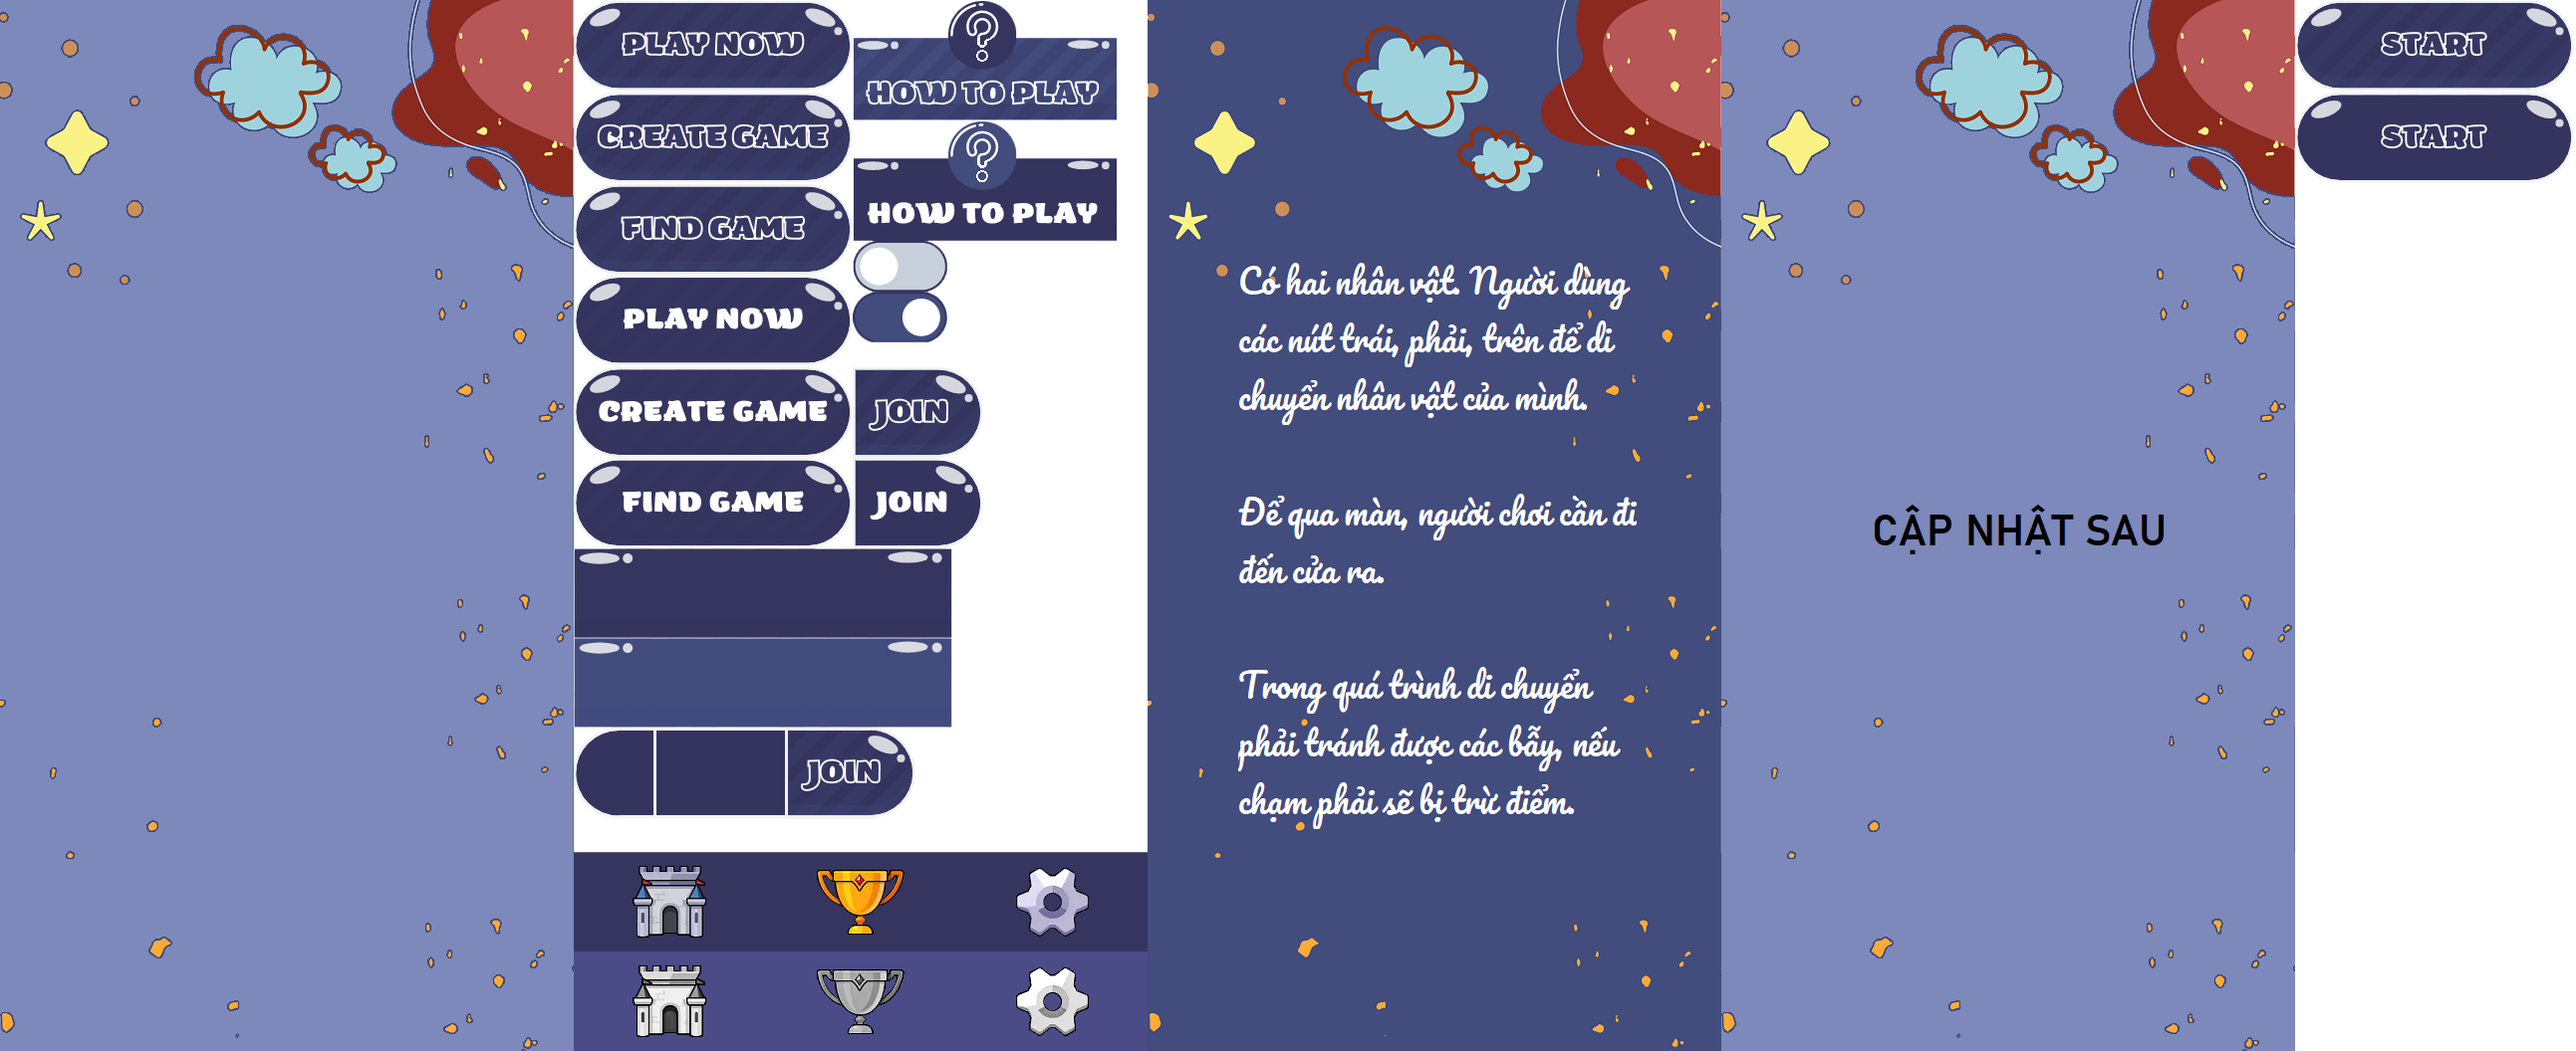
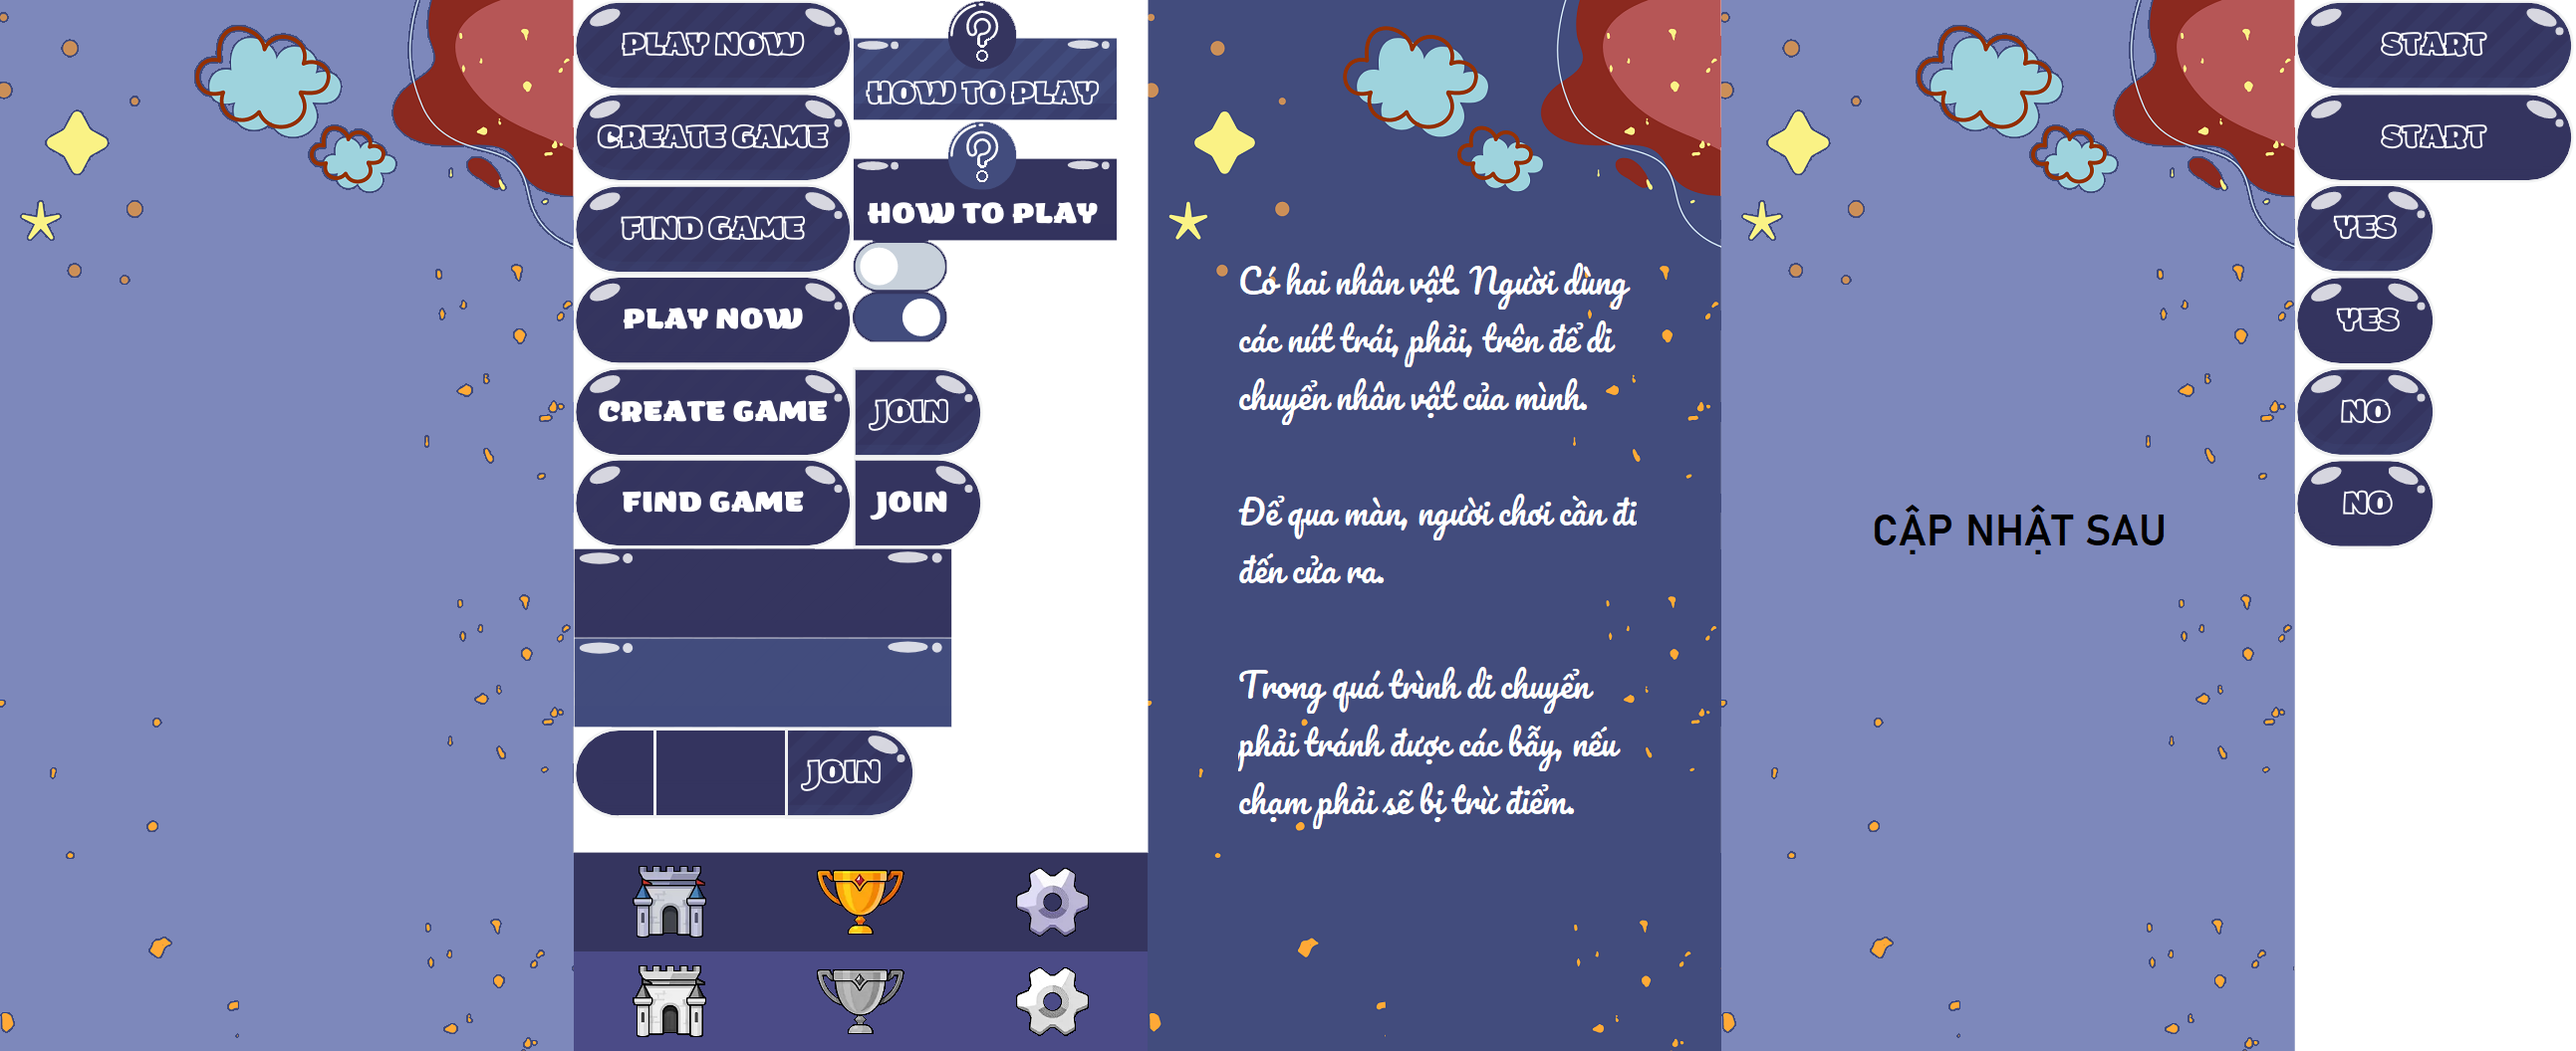
setting music

Changed region(s): [[0.8662, 0.1562, 0.959, 0.5312]]

diff --git a/core/src/com/mygdx/screens/SettingScreen.java b/core/src/com/mygdx/screens/SettingScreen.java
@@ -2,8 +2,10 @@ package com.mygdx.screens;
 
 import com.badlogic.gdx.Gdx;
 import com.badlogic.gdx.Screen;
+import com.badlogic.gdx.graphics.Color;
 import com.badlogic.gdx.graphics.GL20;
 import com.badlogic.gdx.graphics.OrthographicCamera;
+import com.badlogic.gdx.graphics.g2d.BitmapFont;
 import com.badlogic.gdx.graphics.g2d.SpriteBatch;
 import com.badlogic.gdx.graphics.g2d.TextureAtlas;
 import com.badlogic.gdx.scenes.scene2d.InputEvent;
@@ -12,12 +14,15 @@ import com.badlogic.gdx.scenes.scene2d.ui.Button;
 import com.badlogic.gdx.scenes.scene2d.ui.Label;
 import com.badlogic.gdx.scenes.scene2d.ui.Skin;
 import com.badlogic.gdx.scenes.scene2d.ui.Table;
+import com.badlogic.gdx.scenes.scene2d.ui.TextButton;
 import com.badlogic.gdx.scenes.scene2d.utils.ClickListener;
 import com.badlogic.gdx.Game;
 import com.badlogic.gdx.utils.viewport.FitViewport;
 import com.badlogic.gdx.utils.viewport.Viewport;
 import com.mygdx.Escape;
+import com.mygdx.handlers.SoundHandler;
 
+import javax.swing.ButtonGroup;
 import javax.swing.plaf.basic.BasicBorders;
 
 public class SettingScreen implements Screen {
@@ -47,12 +52,31 @@ public class SettingScreen implements Screen {
     public void show() {
         Gdx.input.setInputProcessor(stage);
 
+        Label.LabelStyle font = new Label.LabelStyle(new BitmapFont(), Color.WHITE);
+
         Button home = new Button(skin, "home_off");
         Button rank = new Button(skin, "rank_off");
         Button setting = new Button(skin, "setting");
+        Button no = new Button(skin, "no");
+        Button yes = new Button(skin, "yes");
+        Label music = new Label("Music", font);
+        final Label sound = new Label("Yes", font);
 
-        Label sound = new Label("Sound", skin, "room_name");
-//        BasicBorders.ToggleButtonBorder btn = new BasicBorders.ToggleButtonBorder(Color.)
+        no.addListener(new ClickListener(){
+            @Override
+            public void clicked(InputEvent event, float x, float y) {
+                sound.setText("No");
+                SoundHandler.turnOff();
+            }
+        });
+
+        yes.addListener(new ClickListener(){
+            @Override
+            public void clicked(InputEvent event, float x, float y) {
+                sound.setText("Yes");
+                SoundHandler.turnOn();
+            }
+        });
 
         home.addListener(new ClickListener() {
             @Override
@@ -76,10 +100,18 @@ public class SettingScreen implements Screen {
         menu.add(rank);
         menu.add(setting);
 
+        Table panel = new Table();
+        panel.left();
+        panel.add(yes);
+        panel.add(no);
+
         Table root = new Table();
-        root.setBackground(skin.getDrawable("update_later"));
+        root.setBackground(skin.getDrawable("background"));
         root.setFillParent(true);
         root.top();
+        root.add(music).expandX().padTop(300).row();
+        root.add(sound).padTop(30).row();
+        root.add(panel).padTop(50).row();
         root.add(menu).expand().bottom();
 
         stage.addActor(root);

diff --git a/core/src/com/mygdx/screens/PlayScreen.java b/core/src/com/mygdx/screens/PlayScreen.java
@@ -27,6 +27,7 @@ import com.badlogic.gdx.utils.viewport.Viewport;
 import com.mygdx.Escape;
 import com.mygdx.handlers.EventHandler;
 import com.mygdx.handlers.InputHandler;
+import com.mygdx.handlers.SoundHandler;
 import com.mygdx.scenes.Hud;
 import com.mygdx.sprites.Ground;
 import com.mygdx.sprites.OutDoor;
@@ -120,15 +121,6 @@ public class PlayScreen implements Screen {
         world.setContactListener(new WorldContactListener());
 
         hud = new Hud(batch);
-
-//        Music for game
-        music = Escape.manager.get("audio/music/Escape_music.ogg", Music.class);
-//      music = Escape.manager.get("audio/sounds/Trap.mp3",Music.class);
-
-        music.setLooping(true);
-        music.setVolume(0.1f);
-        music.play();
-
 
         //Create a touchpad skin
         touchpadSkin = new Skin();

diff --git a/core/src/com/mygdx/Escape.java b/core/src/com/mygdx/Escape.java
@@ -7,6 +7,7 @@ import com.badlogic.gdx.assets.AssetManager;
 import com.badlogic.gdx.audio.Music;
 import com.badlogic.gdx.audio.Sound;
 import com.badlogic.gdx.utils.Array;
+import com.mygdx.handlers.SoundHandler;
 import com.mygdx.screens.ConnectScreen;
 import com.mygdx.screens.HowToPlayScreen;
 import com.mygdx.screens.InputNameScreen;
@@ -85,6 +86,8 @@ public class Escape extends Game {
         manager.load("audio/sounds/PassLevel.mp3", Sound.class);
         manager.load("audio/sounds/FinishGame.mp3", Music.class);
         manager.finishLoading();
+
+        SoundHandler.turnOn();
 
         inputNameScreen = new InputNameScreen(this);
         roomScreen = new RoomScreen(this);

diff --git a/core/src/com/mygdx/handlers/SoundHandler.java b/core/src/com/mygdx/handlers/SoundHandler.java
@@ -1,14 +1,27 @@
 package com.mygdx.handlers;
 
+import com.badlogic.gdx.audio.Music;
+import com.mygdx.Escape;
+
 public class SoundHandler {
 
-//    public final static INSTANCE = new SoundHandler();
+    private static Music music = Escape.manager.get("audio/music/Escape_music.ogg", Music.class);
+
     public static boolean isVolumeOn = true;
 
-    SoundHandler(){
+    public static void turnOn(){
 
+        music.setLooping(true);
+        music.setVolume(0.1f);
 
-
+        music.play();
     }
 
+    public static void turnOff(){
+
+        music.setLooping(true);
+        music.setVolume(0);
+
+        music.play();
+    }
 }
